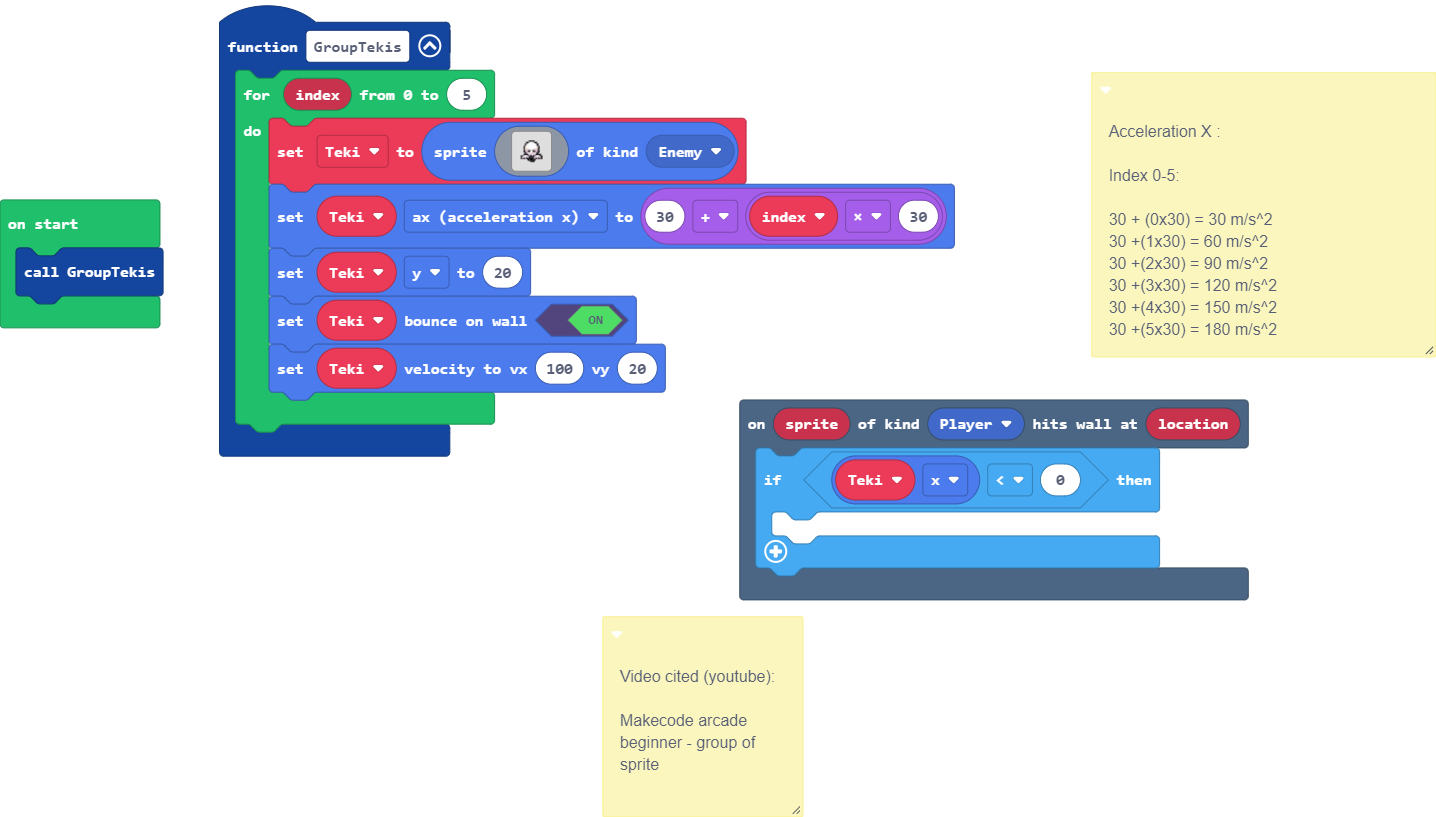
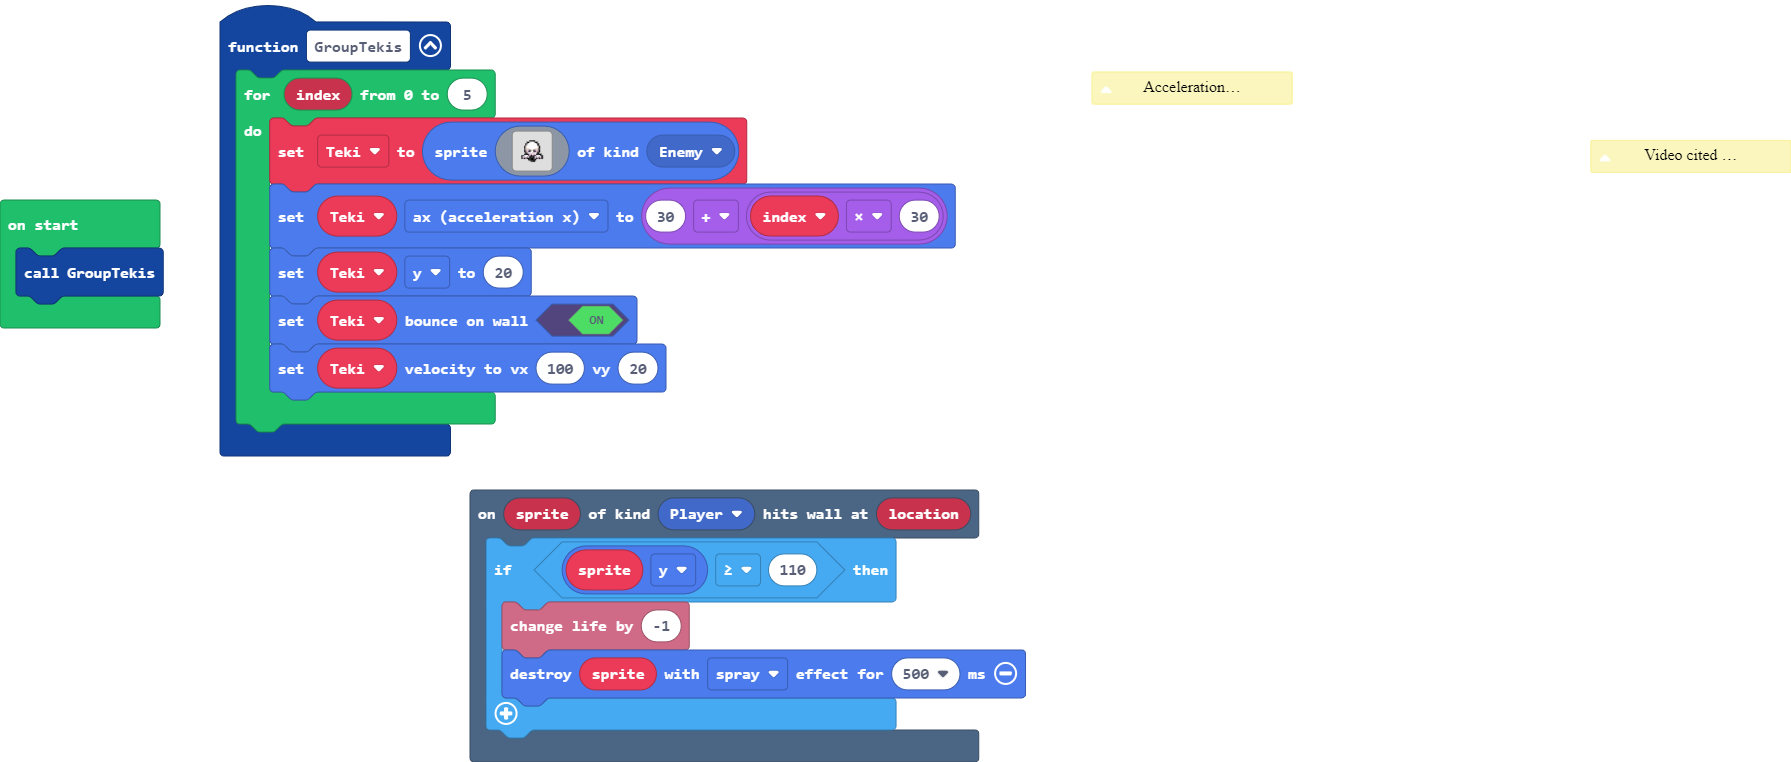
Update main.blocks, main.ts

diff --git a/main.ts b/main.ts
@@ -21,8 +21,9 @@
  * Makecode arcade beginner - group of sprite
  */
 scene.onHitWall(SpriteKind.Player, function (sprite, location) {
-    if (Teki.x < 0) {
-    	
+    if (sprite.y >= 110) {
+        info.changeLifeBy(-1)
+        sprites.destroy(sprite, effects.spray, 500)
     }
 })
 function GroupTekis () {
